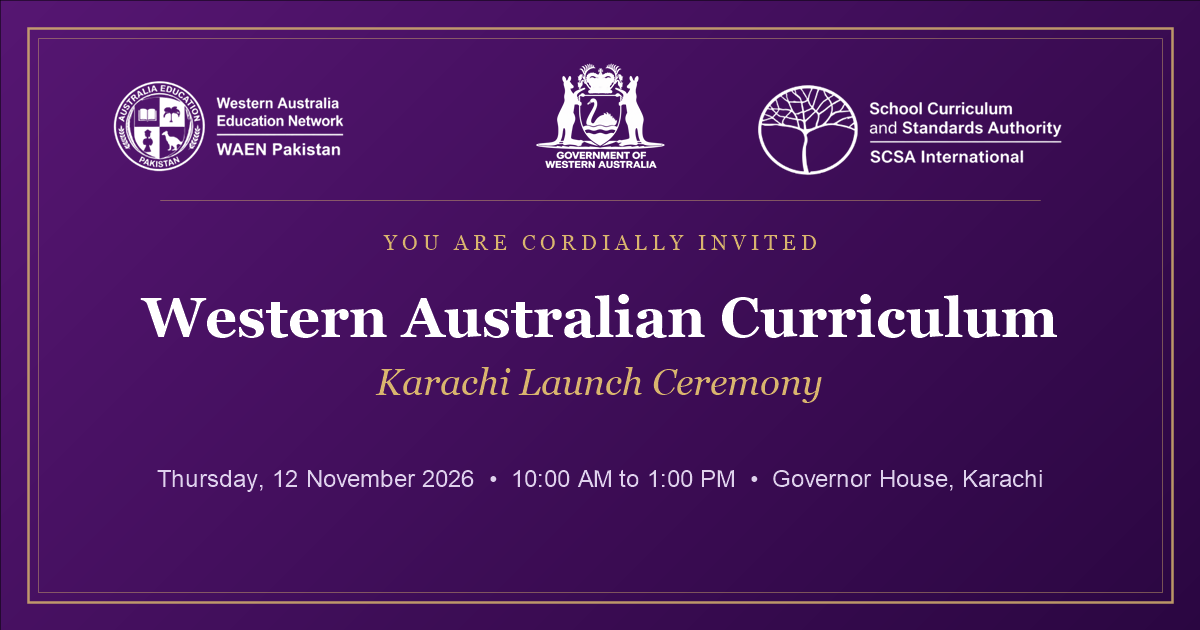
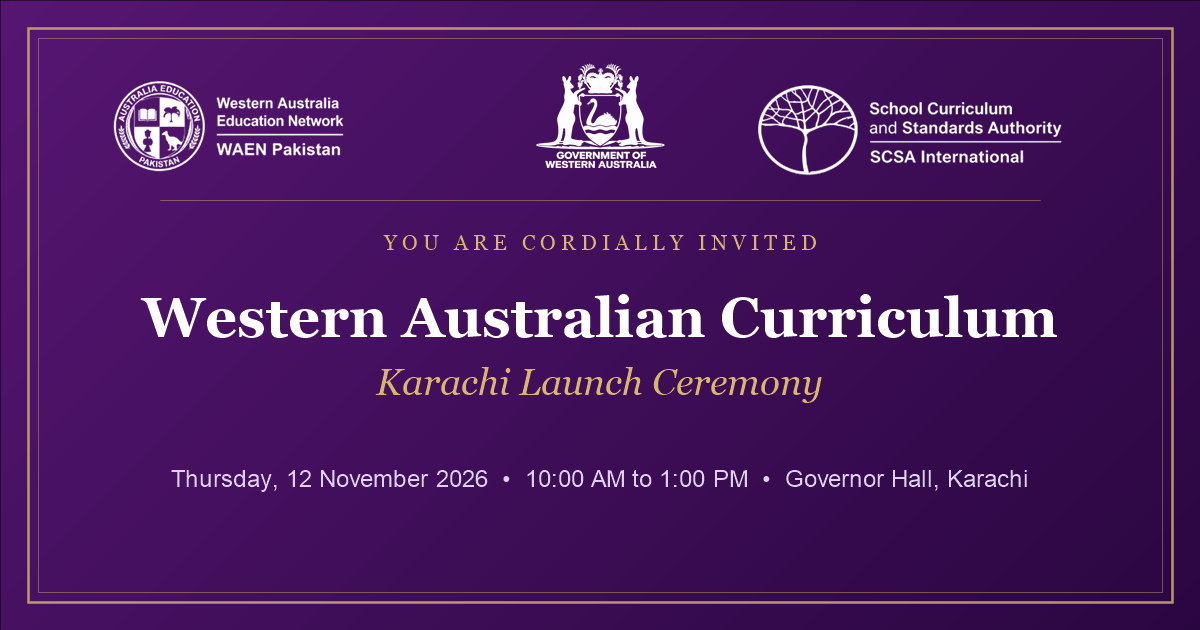
fix: update venue name to Governor Hall, Karachi

Changed region(s): [[0.1233, 0.7238, 0.8633, 0.7841]]

diff --git a/index.html b/index.html
@@ -6,7 +6,7 @@
     <title>Invitation — Western Australian Curriculum | Karachi Launch Ceremony 2026</title>
     <meta
       name="description"
-      content="The Western Australia Education Network (WAEN) invites you to the Official Karachi Launch Ceremony of the Western Australian Curriculum (Kindergarten to Year 12) on Thursday, 12 November 2026 at Governor House, Karachi."
+      content="The Western Australia Education Network (WAEN) invites you to the Official Karachi Launch Ceremony of the Western Australian Curriculum (Kindergarten to Year 12) on Thursday, 12 November 2026 at Governor Hall, Karachi."
     />
     <meta name="theme-color" content="#35094F" />
 
@@ -16,7 +16,7 @@
     <meta property="og:title" content="VIP Invitation — Western Australian Curriculum | Karachi Launch Ceremony 2026" />
     <meta
       property="og:description"
-      content="Thursday, 12 November 2026 • 10:00 AM to 1:00 PM • Governor House, Karachi. Kindly open your digital invitation to view ceremony details and confirm your presence."
+      content="Thursday, 12 November 2026 • 10:00 AM to 1:00 PM • Governor Hall, Karachi. Kindly open your digital invitation to view ceremony details and confirm your presence."
     />
     <meta property="og:image" content="/og-invitation.png" />
     <meta property="og:image:width" content="1200" />
@@ -28,7 +28,7 @@
     <meta name="twitter:title" content="VIP Invitation — Western Australian Curriculum | Karachi Launch Ceremony 2026" />
     <meta
       name="twitter:description"
-      content="Thursday, 12 November 2026 • 10:00 AM to 1:00 PM • Governor House, Karachi."
+      content="Thursday, 12 November 2026 • 10:00 AM to 1:00 PM • Governor Hall, Karachi."
     />
     <meta name="twitter:image" content="/og-invitation.png" />
 

diff --git a/src/config/eventConfig.js b/src/config/eventConfig.js
@@ -18,10 +18,10 @@ export const EVENT_CONFIG = {
   isoEnd: '2026-11-12T13:00:00+05:00',
 
   // Venue
-  venueName: 'Governor House, Karachi',
-  venueAddress: 'Governor House, Karachi, Pakistan',
+  venueName: 'Governor Hall, Karachi',
+  venueAddress: 'Governor Hall, Karachi, Pakistan',
   googleMapsUrl:
-    'https://www.google.com/maps/search/?api=1&query=Governor+House+Karachi',
+    'https://www.google.com/maps/search/?api=1&query=Governor+Hall+Karachi',
 
   // Genuine Supplied Institutional Logos (in required order)
   logos: [

diff --git a/src/utils/ambientAudio.js b/src/utils/ambientAudio.js
@@ -190,3 +190,4 @@ class CeremonialAudioEngine {
 }
 
 export const ceremonialAudio = new CeremonialAudioEngine()
+

diff --git a/src/components/MusicToggle.jsx b/src/components/MusicToggle.jsx
@@ -26,3 +26,4 @@ export default function MusicToggle({ isPlaying, onToggle }) {
     </button>
   )
 }
+
